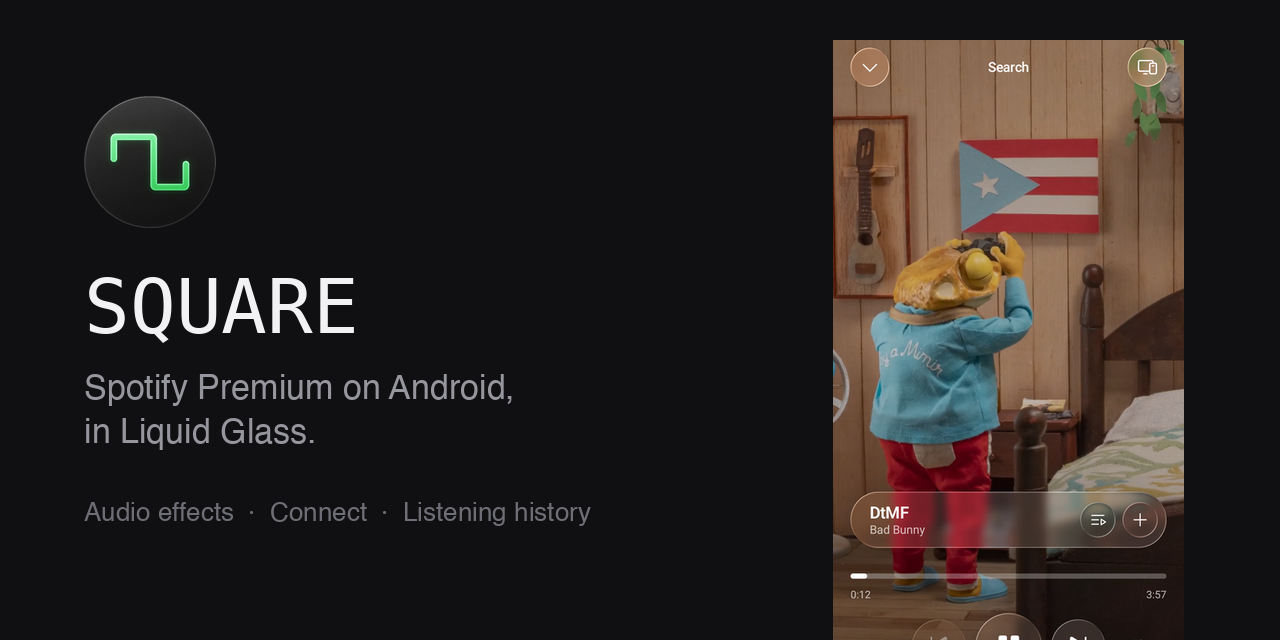
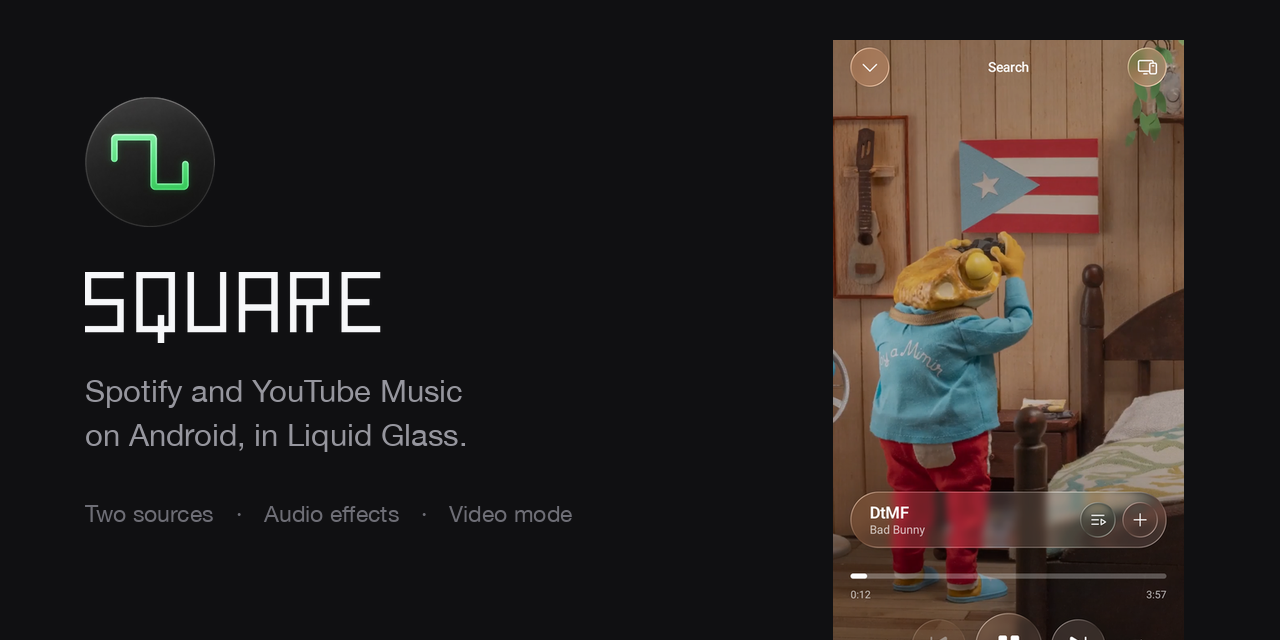
Say in the README that there are two backends now
The README and the social preview both described Square as a Spotify
client alone. Update the tagline, the feature list and the architecture
diagram to cover the YouTube Music backend, mark the Spotify-only
features as such, and credit Metrolist, NewPipeExtractor and LrcLib.

The preview's wordmark is no longer typeset in Helvetica: tools/social-preview.py
ports the drawing from ui/components/Wordmark.kt, so the image says the
name the same way the app's own header does.

diff --git a/tools/social-preview.py b/tools/social-preview.py
@@ -1,0 +1,90 @@
+"""Repaints the left panel of docs/social-preview.png with new copy.
+
+The wordmark is not typeset: it is the same drawing the app puts in its own
+header (`ui/components/Wordmark.kt`) — polylines on a 6x10 grid, orthogonal
+segments only, square caps and miter joins. Kept as a port rather than a font
+so the two cannot drift.
+"""
+
+from PIL import Image, ImageDraw, ImageFont
+
+BG = (16, 16, 18)
+INK = (247, 248, 250)   # theme Ink
+SUB = (150, 150, 158)
+FOOT = (110, 110, 118)
+
+SRC = "docs/social-preview.png"
+OUT = "docs/social-preview.png"
+PANEL = 833  # where the phone screenshot starts
+
+HELV = "/System/Library/Fonts/HelveticaNeue.ttc"
+
+# S Q U A R E, straight from GLYPHS in Wordmark.kt.
+GLYPHS = [
+    [[(6, 0), (0, 0), (0, 5), (6, 5), (6, 10), (0, 10)]],
+    [[(0, 0), (6, 0), (6, 10), (0, 10), (0, 0)], [(4, 8), (4, 12)]],
+    [[(0, 0), (0, 10), (6, 10), (6, 0)]],
+    [[(0, 10), (0, 0), (6, 0), (6, 10)], [(0, 6), (6, 6)]],
+    [[(0, 10), (0, 0), (6, 0), (6, 5), (0, 5)], [(3, 5), (3, 10)]],
+    [[(6, 0), (0, 0), (0, 10), (6, 10)], [(0, 5), (4, 5)]],
+]
+ADVANCE = 9.5   # units between glyph origins
+BOX = 12.0      # units of the wordmark's own height
+
+
+def draw_wordmark(im, x, y, height, color, scale=4):
+    """Draws the wordmark with its top-left at (x, y), `height` units tall.
+
+    Every segment is axis-aligned, so a segment is drawn as its bounding box
+    grown by half a stroke on all sides: that gives the square caps at the ends
+    of a polyline and fills the right-angle miter at every join, which is what
+    Compose's Stroke(cap=Square, join=Miter) produces.
+    """
+    unit = height / BOX * scale
+    stroke = unit * 1.15
+    half = stroke / 2
+
+    w = int(ADVANCE * len(GLYPHS) * unit + stroke)
+    h = int(BOX * unit + stroke)
+    layer = Image.new("L", (w, h), 0)
+    d = ImageDraw.Draw(layer)
+
+    for i, glyph in enumerate(GLYPHS):
+        origin = i * ADVANCE * unit + half
+        for line in glyph:
+            for (ax, ay), (bx, by) in zip(line, line[1:]):
+                x0, x1 = sorted((origin + ax * unit, origin + bx * unit))
+                y0, y1 = sorted((ay * unit + half, by * unit + half))
+                d.rectangle([x0 - half, y0 - half, x1 + half, y1 + half], fill=255)
+
+    mask = layer.resize((w // scale, h // scale), Image.LANCZOS)
+    im.paste(Image.new("RGB", mask.size, color), (int(x), int(y)), mask)
+
+
+im = Image.open(SRC).convert("RGB")
+d = ImageDraw.Draw(im)
+d.rectangle([0, 0, PANEL - 1, im.height], fill=BG)
+
+# The icon, same place and size as before.
+icon = Image.open("docs/square.png").convert("RGBA").resize((130, 130), Image.LANCZOS)
+im.paste(icon, (85, 97), icon)
+
+# Cap height 54, matching the Helvetica wordmark this replaces.
+draw_wordmark(im, 85, 272, height=54 / 10 * BOX, color=INK)
+
+f_sub = ImageFont.truetype(HELV, 31, index=0)
+f_foot = ImageFont.truetype(HELV, 23, index=0)
+
+d.text((85, 372), "Spotify and YouTube Music", font=f_sub, fill=SUB)
+d.text((85, 416), "on Android, in Liquid Glass.", font=f_sub, fill=SUB)
+
+x = 85
+for i, part in enumerate(["Two sources", "Audio effects", "Video mode"]):
+    if i:
+        d.text((x, 500), "·", font=f_foot, fill=FOOT)
+        x += d.textlength("·", font=f_foot) + 22
+    d.text((x, 500), part, font=f_foot, fill=FOOT)
+    x += d.textlength(part, font=f_foot) + 22
+
+im.save(OUT)
+print("wrote", OUT, im.size)

diff --git a/README.md b/README.md
@@ -5,26 +5,37 @@
 <h1 align="center">Square</h1>
 
 <p align="center">
-  An unofficial Android client for Spotify Premium, built in Liquid Glass.
+  An unofficial Android music client for Spotify Premium and YouTube Music,
+  built in Liquid Glass.
 </p>
 
-Built on [librespot](https://github.com/librespot-org/librespot). The official
-app is not needed and is not used: audio is streamed in-process by a native Rust
-core.
+One app over two catalogues. Spotify plays through
+[librespot](https://github.com/librespot-org/librespot), so the official app is
+not needed and is not used: audio is streamed in-process by a native Rust core.
+YouTube Music plays through its own endpoints, where search and playback need no
+account at all. Which one the music comes from is the first question a fresh
+install asks, and it can be changed later in the settings.
 
 | Player | Effects | Home |
 | --- | --- | --- |
 | ![The player](docs/screenshots/player.png) | ![The effects panel](docs/screenshots/effects.png) | ![The home page](docs/screenshots/home.png) |
 
-## Why use this instead of the official app
+## Why use this instead of the official apps
 
-**It is built in Liquid Glass.** Every control — the tab bar, the player, the
-sheets, the menus — is drawn on one refracting material that bends the artwork
+**It is one app for both.** The same player, the same library, the same
+effects, over Spotify or over YouTube Music. Spotify is your own account, with
+its playlists, its Connect devices and its listening history, and it needs a
+login and a little setup. YouTube Music is the whole catalogue, searchable and
+playable the moment the app opens, with signing in optional and worth it only
+for your own playlists.
+
+**It is built in Liquid Glass.** Every control, the tab bar, the player, the
+sheets and the menus, is drawn on one refracting material that bends the artwork
 and the canvas video behind it. Nothing on Spotify for Android looks like this,
 and it is the reason the app exists.
 
 **It can bend the music.** Speed and pitch move independently, there is a real
-reverb on the output, and the three save as presets — so "slowed + reverb" is a
+reverb on the output, and the three save as presets, so "slowed + reverb" is a
 single tap on any track in the catalogue rather than a file someone else made.
 
 **It is fast.** A skip is sound in about a third of a second, because the engine
@@ -32,24 +43,34 @@ fetches the next track while the current one plays and the app never waits on it
 to move. The playing list is cached rather than rebuilt, so scrolling stays at
 the screen's own frame rate.
 
-> **Read this before you install it.** Square re-implements Spotify's protocol,
-> which their Terms of Service forbid. It cannot go on the Play Store, it needs
-> a Premium account, and using it is at your own risk. There is no warranty of
-> any kind — see the licence.
+> **Read this before you install it.** Both backends talk to services on terms
+> they do not offer: Square re-implements Spotify's protocol, which their Terms
+> of Service forbid, and reads YouTube Music through the private endpoints its
+> own web client uses. It cannot go on the Play Store, the Spotify side needs a
+> Premium account, and using it is at your own risk. There is no warranty of any
+> kind. See the licence.
 
 ## What it does
 
-- **Plays your library.** Playlists, albums, artists, liked songs, search, all
-  through Spotify's own access point rather than the public Web API.
-- **Is a Connect device.** Square appears in the device list of every other
-  Spotify client, and playback can be handed to and taken from it.
-- **Records what you listen to.** Listens are reported to the account, filed
-  under the playlist or album they happened in, so Square can be used *instead*
-  of the official client rather than beside it.
-- **Lyrics, canvas, artwork.** Synced lyrics where Spotify has them, the looping
-  canvas video on the player, and the covers of the generated playlists in the
-  app's own language.
-- **Audio effects.** Speed and pitch independently, plus reverb, with presets —
+- **Plays two catalogues.** Spotify or YouTube Music, chosen at first launch and
+  changeable in the settings. Home, search, the library and the player all go
+  through whichever one is selected.
+- **Plays your library.** Playlists, albums, artists, liked songs, search. On
+  Spotify through its own access point rather than the public Web API; on
+  YouTube Music anonymously, with an optional Google sign-in that adds the
+  account's own playlists and home shelves.
+- **Is a Connect device** *(Spotify)*. Square appears in the device list of
+  every other Spotify client, and playback can be handed to and taken from it.
+- **Records what you listen to** *(Spotify)*. Listens are reported to the
+  account, filed under the playlist or album they happened in, so Square can be
+  used *instead* of the official client rather than beside it.
+- **Lyrics, canvas, artwork.** Synced lyrics, from Spotify where it has them
+  and from [LrcLib](https://lrclib.net) for the YouTube side; the looping
+  Spotify canvas video on the player; and the covers of the generated playlists
+  in the app's own language.
+- **Watches the video** *(YouTube Music)*. One tap on the player swaps the audio
+  stream for the real video, in place, without losing the queue or the position.
+- **Audio effects.** Speed and pitch independently, plus reverb, with presets:
   the "slowed + reverb" edit, done properly, on any track.
 - **Android Auto.** Playlists and recently played are browsable in the car, and
   voice search plays from the catalogue. Auto only lists apps it was installed
@@ -61,26 +82,42 @@ the screen's own frame rate.
 ## Architecture
 
 ```
-┌─────────────────────────────────────────┐
-│ Compose UI                              │
-├─────────────────────────────────────────┤
-│ MediaController ──► MediaSession        │  notification, lock screen, Bluetooth
-├─────────────────────────────────────────┤
-│ PlaybackService                         │  foreground service, owns the engine
-│   └─ LibrespotPlayer : SimpleBasePlayer │  adapts the engine to Media3
-├──────────────────┬──────────────────────┤
-│ Web API (HTTPS)  │ JNI ──► libsquarecore│
-│ search, top      │        librespot     │
-│ tracks, devices  │        + AudioTrack  │
-└──────────────────┴──────────────────────┘
+┌───────────────────────────────────────────────────────────┐
+│ Compose UI                                                │
+├───────────────────────────────────────────────────────────┤
+│ MediaController ──► MediaSession                          │  notification, lock screen, Bluetooth
+├───────────────────────────────────────────────────────────┤
+│ PlaybackService                                           │  foreground service, owns the player
+├───────────────────────────────────────────────────────────┤
+│ MusicBackend            selected once, swapped on change  │
+├──────────────────────────┬────────────────────────────────┤
+│ SpotifyBackend           │ YouTubeBackend                 │
+│   LibrespotPlayer        │   ExoPlayer                    │
+│     : SimpleBasePlayer   │     + YouTubeStreamResolver    │
+├─────────────────┬────────┼──────────────────┬─────────────┤
+│ Web API (HTTPS) │ JNI ──►│ NewPipeExtractor │ innertube   │
+│ search, top     │ libsq… │ search, streams  │ the account │
+│ tracks, devices │ libre… │ anonymous        │ library     │
+└─────────────────┴────────┴──────────────────┴─────────────┘
 ```
 
-The catalogue comes from the access point (`native/src/catalog.rs`), not from
-`api.spotify.com`: the Web API meters requests per application, and there is no
-streaming endpoint there at all. The Web API is used only where the access point
-has nothing to offer — search, the account's top tracks, the Connect device
-list, editing playlists — and that is why Square asks you to register an
-application of your own.
+`MusicBackend` is the seam: every catalogue read and the `Player` itself come
+from it, so no screen has to know which service is answering. A backend that
+cannot do something, as YouTube Music has no Connect device list, returns the
+empty value rather than throwing, and that is what keeps one UI usable on both.
+
+On the YouTube side the split is by what needs an account, not by preference.
+Search, trending and stream URLs are public and go through NewPipeExtractor,
+which is why the app works before anyone signs in and for anyone who never does.
+The library is the account's own, so it goes through the vendored
+[`innertube/`](innertube/) module with the session cookie attached.
+
+On the Spotify side the catalogue comes from the access point
+(`native/src/catalog.rs`), not from `api.spotify.com`: the Web API meters
+requests per application, and there is no streaming endpoint there at all. The
+Web API is used only where the access point has nothing to offer: search, the
+account's top tracks, the Connect device list and editing playlists. That is why
+Square asks you to register an application of your own.
 
 The player keeps no copy of the engine's state: `LibrespotPlayer` reports only
 what the engine has confirmed by event. That is why the seek bar never runs
@@ -122,7 +159,7 @@ keytool -genkey -v -keystore square-release.jks -keyalg RSA \
 ```
 
 ```properties
-# keystore.properties — never commit this
+# keystore.properties, never commit this
 storeFile=square-release.jks
 storePassword=…
 keyAlias=square
@@ -141,7 +178,7 @@ process. All four are explained in
 
 **OAuth uses the keymaster client id on a fixed port.** The redirect has to be
 exactly `http://127.0.0.1:5588/login`, the only one registered for that id, and
-the socket must be bound to the IPv4 loopback explicitly — on Android
+the socket must be bound to the IPv4 loopback explicitly: on Android
 `InetAddress.getLoopbackAddress()` answers `::1` and the browser then fails the
 redirect with `ERR_CONNECTION_REFUSED`.
 
@@ -156,8 +193,13 @@ vanishes silently.
 `MediaItemData` twice a second makes enough garbage to be heard as stuttering.
 The list is cached and dropped only when the queue actually changes.
 
+**Keep NewPipeExtractor current.** YouTube breaks extraction deliberately and
+often, and a version a few months stale does not fail loudly: v0.24.6 still
+searched fine while every stream answered "The page needs to be reloaded". If
+YouTube playback stops working and search does not, bump that version first.
+
 **`vergen` is pinned to 9.0.6.** `librespot-core` 0.8.0's build script does not
-compile against 9.1.0 — a semver-compatible bump that changed the `Add` trait.
+compile against 9.1.0, a semver-compatible bump that changed the `Add` trait.
 The pin lives in `native/Cargo.lock`.
 
 **Token refresh is serialised.** `TokenStore.validAccessToken()` takes a mutex
@@ -169,7 +211,10 @@ is already dead. It is the bug behind the random logouts in most other clients.
 
 | Project | Licence | How it is used |
 | --- | --- | --- |
-| [librespot](https://github.com/librespot-org/librespot) | MIT | The engine. `librespot-core` is vendored with local patches. |
+| [librespot](https://github.com/librespot-org/librespot) | MIT | The Spotify engine. `librespot-core` is vendored with local patches. |
+| [Metrolist](https://github.com/mostafaalagamy/Metrolist) | GPL-3.0 | Its InnerTube client, vendored as [`innertube/`](innertube/), because it is published nowhere else. Powers the signed-in YouTube Music library. |
+| [NewPipeExtractor](https://github.com/TeamNewPipe/NewPipeExtractor) | GPL-3.0 | Anonymous YouTube Music search and stream URLs. |
+| [LrcLib](https://lrclib.net) | n/a | Synced lyrics for the YouTube Music backend, over its open API. |
 | [Bungee](https://github.com/kupix/bungee) | MPL-2.0 | Time stretching, fetched at build time. |
 | [AndroidLiquidGlass](https://github.com/Kyant0/AndroidLiquidGlass) | Apache-2.0 | The glass material; the catalog components are copied with their notice. |
 | [Phosphor Icons](https://phosphoricons.com) | MIT | Every icon in the app. |
